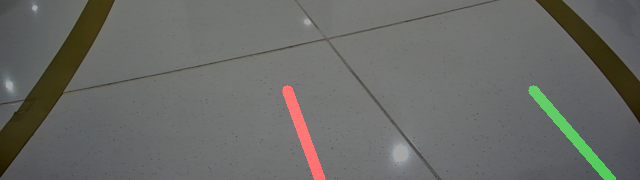
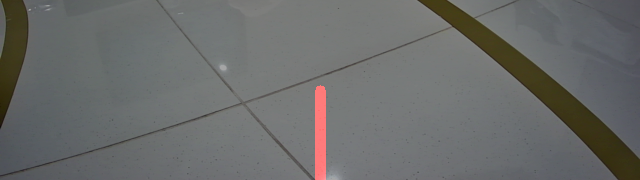
with hsv

diff --git a/car_local.py b/car_local.py
@@ -1,4 +1,5 @@
 import cv2
+import numpy as np
 import argparse
 import tensorflow as tf
 
@@ -9,6 +10,7 @@ except:
 	print("FAILED TO INITIALIZE. RUNNING ANYWAY!")
 	DRIVER_INITIALIZED = False
 from tools import ( roi,
+		   		hsv,
 		   			pwm,
 					show,
 		   			pred_lines,
@@ -22,6 +24,9 @@ from tools import ( roi,
 VIDEO_SOURCE = 0
 BASE_SPEED = 30
 SHOW_IMAGES = False
+
+LOWER_MASK = np.array([0, 62, 0], np.uint8)
+UPPER_MASK = np.array([179, 255, 124], np.uint8)
 
 def segments(img_input, score_thr, dist_thr):
 	try:
@@ -39,7 +44,7 @@ def segments(img_input, score_thr, dist_thr):
 	return img_output, lines
 
 parser = argparse.ArgumentParser('project_odyssey')
-parser.add_argument('--model_path', default='tflite_models/M-LSD_320_tiny_fp32.tflite', type=str, help='path to tflite model')
+parser.add_argument('--model_path', default='tflite_models/M-LSD_320_tiny_fp16.tflite', type=str, help='path to tflite model')
 parser.add_argument('--input_size', default=320, type=int, choices=[512, 320], help='input size')
 args = parser.parse_args()
 
@@ -62,7 +67,8 @@ while True:
 			exit()
 
 		cropped, CROPPED_H, CROPPED_W = roi(frame)
-		result, pot_lines = segments(cropped, 0.27, 20) # used to be 0.1, configures model sensitivity
+		masked = hsv(cropped, LOWER_MASK, UPPER_MASK)
+		result, pot_lines = segments(masked, 0.3, 0) # used to be 0.1, configures model sensitivity #idk what the other one does, max is 20
 		pot_line_mask = add_to_mask(pot_lines, (CROPPED_H, CROPPED_W))
 		lane_frame, lane_lines = calc_lines(cropped, pot_lines, CROPPED_H, CROPPED_W)
 		pot_angle = calc_steering(cropped, lane_lines)
@@ -76,7 +82,7 @@ while True:
 
 		print(f"Motor Left: {left}, Motor Right: {right}")
 
-		move(left, right) if DRIVER_INITIALIZED else 0 # if motor driver is enabled, drive
+		move(right, left) if DRIVER_INITIALIZED else 0 # if motor driver is enabled, drive
 
 		show("original", frame, SHOW_IMAGES)
 		show("lines", result, SHOW_IMAGES)
@@ -84,7 +90,7 @@ while True:
 		show("preview", preview, SHOW_IMAGES)
 
 		cv2.imwrite("steer.test.png", preview)
-		cv2.imwrite("mask.test.png", pot_line_mask)
+		cv2.imwrite("mask.test.png", masked)
 
 		if cv2.waitKey(1) & 0xFF == ord('q'):
 			if DRIVER_INITIALIZED:

diff --git a/tools.py b/tools.py
@@ -17,6 +17,11 @@ def roi(image):
 	#return cropped_img, height, width
 	#return image, image.shape[1], image.shape[0]
 
+def hsv(frame, lower, upper):
+	hsv = cv2.cvtColor(frame, cv2.COLOR_BGR2HSV)
+	masked = cv2.inRange(hsv, lower, upper)
+	return masked
+
 def add_to_mask(lines, mask_shape):
 	mask = np.zeros((180, 640), dtype=np.uint8)
 	mask = cv2.cvtColor(mask, cv2.COLOR_GRAY2BGR)
@@ -108,7 +113,7 @@ def calc_steering(frame, lane_lines):
 	#print('DEBUG: new steering angle: %s' % steering_angle)
 	return steering_angle
 
-def stabilize(current, new, num_lanes, max_confident_deviation=5, max_unsure_deviation=1):
+def stabilize(current, new, num_lanes, max_confident_deviation=8, max_unsure_deviation=4):
 	"""
 	Using last steering angle to stabilize the steering angle
 	This can be improved to use last N angles, etc
@@ -120,8 +125,10 @@ def stabilize(current, new, num_lanes, max_confident_deviation=5, max_unsure_dev
 	elif num_lanes == 1:
 		# if only one lane detected, don't deviate too much
 		max_angle_deviation = max_unsure_deviation
-	elif num_lanes == 0:
-		max_angle_deviation = 100
+	else:
+		max_angle_deviation = 2
+	#elif num_lanes == 0:
+		#max_angle_deviation = 100
 	
 	angle_deviation = new - current
 	if abs(angle_deviation) > max_angle_deviation:
